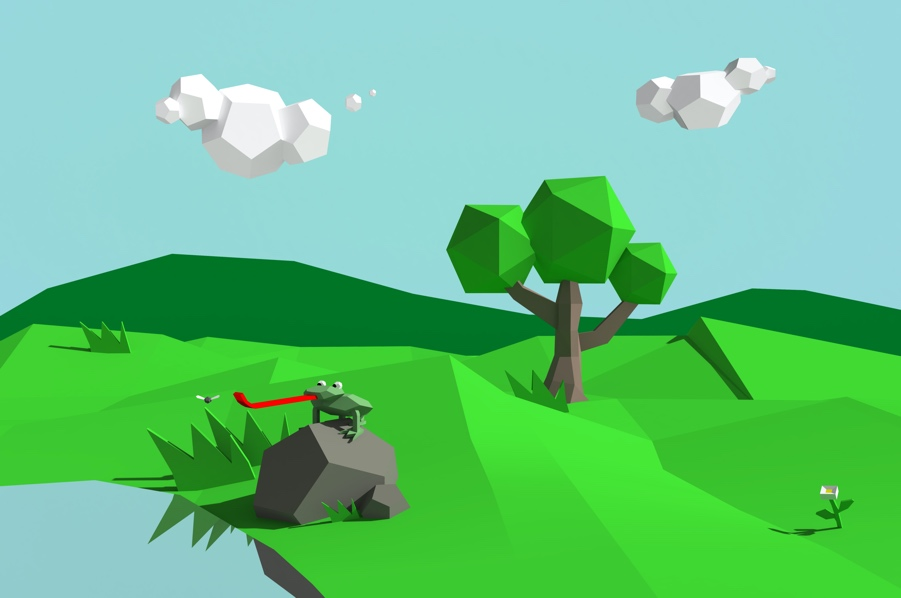
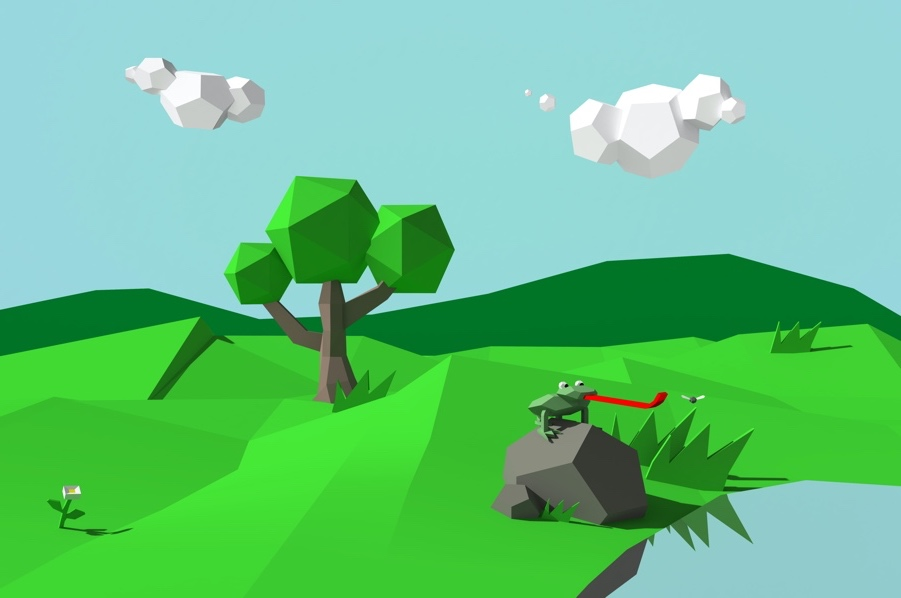
small tweaks to text and chart and flip the image

diff --git a/app/assets/javascripts/components/frog_report/frog_report_modal_instance_controller.js b/app/assets/javascripts/components/frog_report/frog_report_modal_instance_controller.js
@@ -17,9 +17,16 @@ angular.module('QuepidApp')
         "$schema": "https://vega.github.io/schema/vega/v5.json",
         "description": "A basic bar chart example, with value labels shown upon mouse hover.",
         "width": 800,
-        "height": 150,
+        "height": 200,
         "padding": 5,
-
+        "title": {
+           "text": "Summary of Query Rating Status",
+           "subtitle": "Number of queries grouped by missing ratings",
+           "subtitleFontStyle": "italic",
+           "frame": "group",
+           "anchor": "start",
+           "offset": 10
+         },
         "data": [
           {
             "name": "table",
@@ -68,8 +75,8 @@ angular.module('QuepidApp')
         ],
 
         "axes": [
-          { "orient": "bottom", "scale": "xscale" },
-          { "orient": "left", "scale": "yscale" }
+          { "orient": "bottom", "scale": "xscale", "title": "Rating Status" },
+          { "orient": "left", "scale": "yscale", "title": "Number Queries" }
         ],
 
         "marks": [
@@ -112,149 +119,6 @@ angular.module('QuepidApp')
           }
         ]
       };
-
-
-      $scope.spec2 = {
-        "$schema": "https://vega.github.io/schema/vega/v5.json",
-        "description": "Visualize the evolution of your Tries",
-        "width": 200,
-        "height": 150,
-        "padding": 5,
-
-        "signals": [
-          {
-            "name": "labels", "value": true,
-            "bind": {"input": "checkbox"}
-          },
-          {
-            "name": "layout", "value": "tidy",
-            "bind": {"input": "radio", "options": ["tidy", "cluster"]}
-          },
-          {
-            "name": "links", "value": "diagonal",
-            "bind": {
-              "input": "select",
-              "options": ["line", "curve", "diagonal", "orthogonal"]
-            }
-          },
-          {
-            "name": "separation", "value": false,
-            "bind": {"input": "checkbox"}
-          }
-        ],
-
-        "data": [
-          {
-            "name": "tree",
-            "urloff": "http://localhost:3000/analytics/tries_visualization/4/vega_data.json",
-            "values": [
-              {
-                "id": 36,
-                "name": "Try 2",
-                "parent": 4,
-                "size": 10,
-                "url": "http://localhost:3000/case/4/try/2",
-                "query_params": "{\n  \"query\": {\n    \"match_all\": {}\n  }\n}"
-              },
-              {
-                "id": 4,
-                "name": "Try 1",
-                "size": 10,
-                "url": "http://localhost:3000/case/4/try/1",
-                "query_params": "{\"query\": {\"match_all\": {}}}"
-              }
-            ],
-            "transform": [
-              {
-                "type": "stratify",
-                "key": "id",
-                "parentKey": "parent"
-              },
-              {
-                "type": "tree",
-                "method": {"signal": "layout"},
-                "size": [{"signal": "height"}, {"signal": "width - 100"}],
-                "separation": {"signal": "separation"},
-                "as": ["y", "x", "depth", "children"]
-              }
-            ]
-          },
-          {
-            "name": "links",
-            "source": "tree",
-            "transform": [
-              { "type": "treelinks" },
-              {
-                "type": "linkpath",
-                "orient": "horizontal",
-                "shape": {"signal": "links"}
-              }
-            ]
-          }
-        ],
-
-        "scales": [
-          {
-            "name": "color",
-            "type": "linear",
-            "range": {"scheme": "magma"},
-            "domain": {"data": "tree", "field": "depth"},
-            "zero": true
-          }
-        ],
-
-        "marks": [
-          {
-            "type": "path",
-            "from": {"data": "links"},
-            "encode": {
-              "update": {
-                "path": {"field": "path"},
-                "stroke": {"value": "#ccc"}
-              }
-            }
-          },
-          {
-            "type": "symbol",
-            "from": {"data": "tree"},
-            "encode": {
-              "enter": {
-                "size": {"value": 100},
-                "stroke": {"value": "#fff"},
-                "href": {"field": "url", "type": "nominal"},
-                "tooltip": {"field": "query_params", "type": "nominal"}
-              },
-              "update": {
-                "x": {"field": "x"},
-                "y": {"field": "y"},
-                "fill": {"scale": "color", "field": "depth"}
-              }
-            }
-          },
-          {
-            "type": "text",
-            "from": {"data": "tree"},
-            "encode": {
-              "enter": {
-                "text": {"field": "name"},
-                "fontSize": {"value": 9},
-                "baseline": {"value": "middle"},
-                "href": {"field": "url", "type": "nominal"},
-                "tooltip": {"field": "query_params", "type": "nominal"}
-              },
-              "update": {
-                "x": {"field": "x"},
-                "y": {"field": "y"},
-                "dx": {"signal": "datum.children ? -7 : 7"},
-                "align": {"signal": "datum.children ? 'right' : 'left'"},
-                "opacity": {"signal": "labels ? 1 : 0"}
-              }
-            }
-          }
-        ]
-      };
-
-
 
       /* jshint ignore:end */
       ctrl.tableOfRatings = function () {

diff --git a/app/assets/javascripts/components/frog_report/_modal.html b/app/assets/javascripts/components/frog_report/_modal.html
@@ -1,6 +1,6 @@
 <div class="modal-header">
   <button type="button" class="close" aria-label="Close" ng-click="ctrl.cancel()"><span aria-hidden="true">&times;</span></button>
-  <h3 class="modal-title">The Frog Report: <span class="modal-case">{{ ctrl.theCase.caseName }}</span></h3>
+  <h3 class="modal-title">The Frog Pond Report: <span class="modal-case">{{ ctrl.theCase.caseName }}</span></h3>
 </div>
 <div class="modal-body frog-pond">
   <div class="frog-pond-content">
@@ -9,13 +9,14 @@
 
   <h4>Summary</h4>
 
-  You have {{ ctrl.theCase.queriesCount}} Queries in this case, which means you need a total of {{ ctrl.totalNumberOfRatingsNeeded() }} ratings to eliminate all frogs.<br/>
+  You have {{ ctrl.theCase.queriesCount}} Queries for this case, which means you need {{ ctrl.totalNumberOfRatingsNeeded() }}
+  ratings to eliminate all the frogs.<br/>
   <span ng-if="ctrl.theCase.lastScore.all_rated">
   All the queries have been fully rated!  Congratulations!
   </span>
   <span ng-if="!ctrl.theCase.lastScore.all_rated">
-  There are {{ ctrl.numberOfMissingRatings() }} missing ratings, leading to a {{ ctrl.missingRatingsRate() }}% missing rate.
-  We recommend maintaining less then 5% of all ratings being missing to have confidence in the scores you are calculating.
+  There are {{ ctrl.numberOfMissingRatings() }} ratings missing, leading to {{ ctrl.missingRatingsRate() }}% missing rate.
+  We recommend maintaining less than 5% ratings missing to have confidence in the scores you are calculating.
   <span ng-if="ctrl.missingRatingsRate() > 5">
   <br/>
   So hop to it!
@@ -23,7 +24,7 @@
   </span>
   <br/>
 
-  <h4 style="margin-top: 160px;">Distribution of Queries Needing Ratings</h4>
+  <h4 style="margin-top: 80px;">Distribution of Queries Needing Ratings</h4>
 
 
   <div vega id="chart1" spec="spec"></div>
